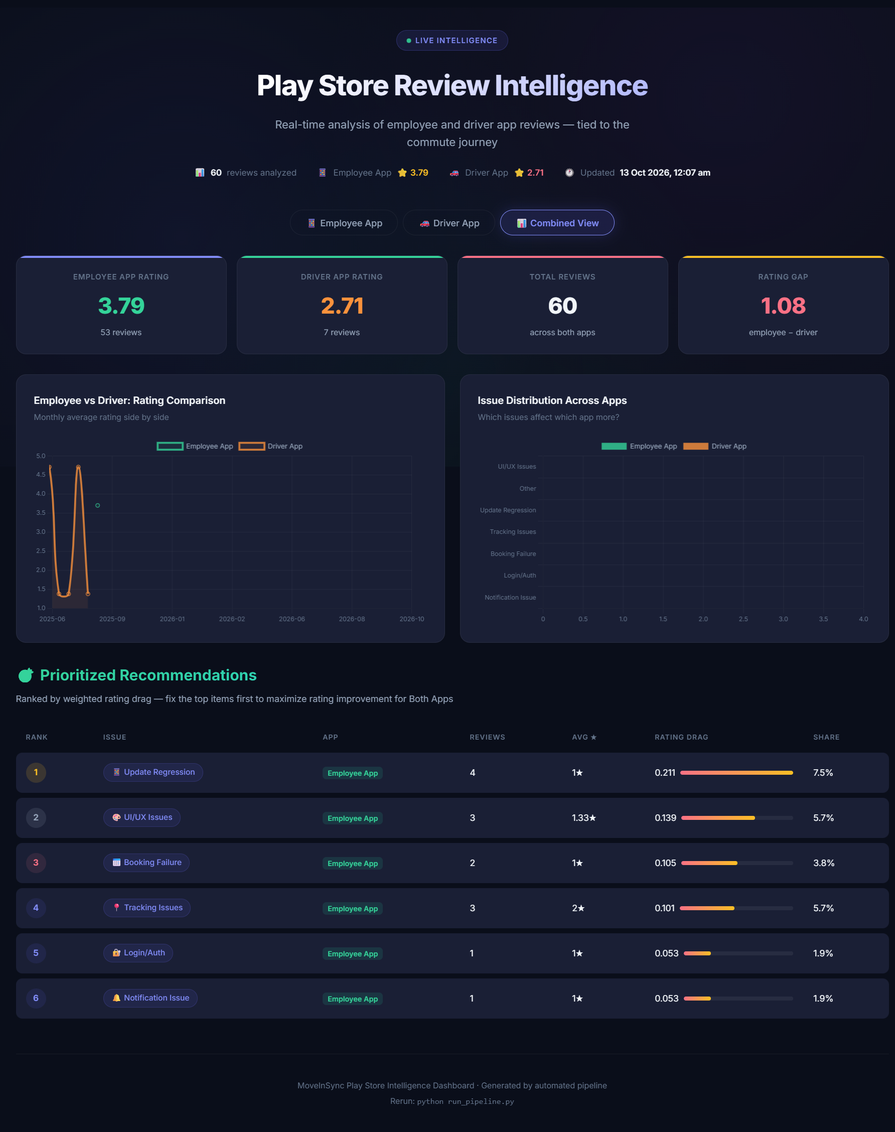
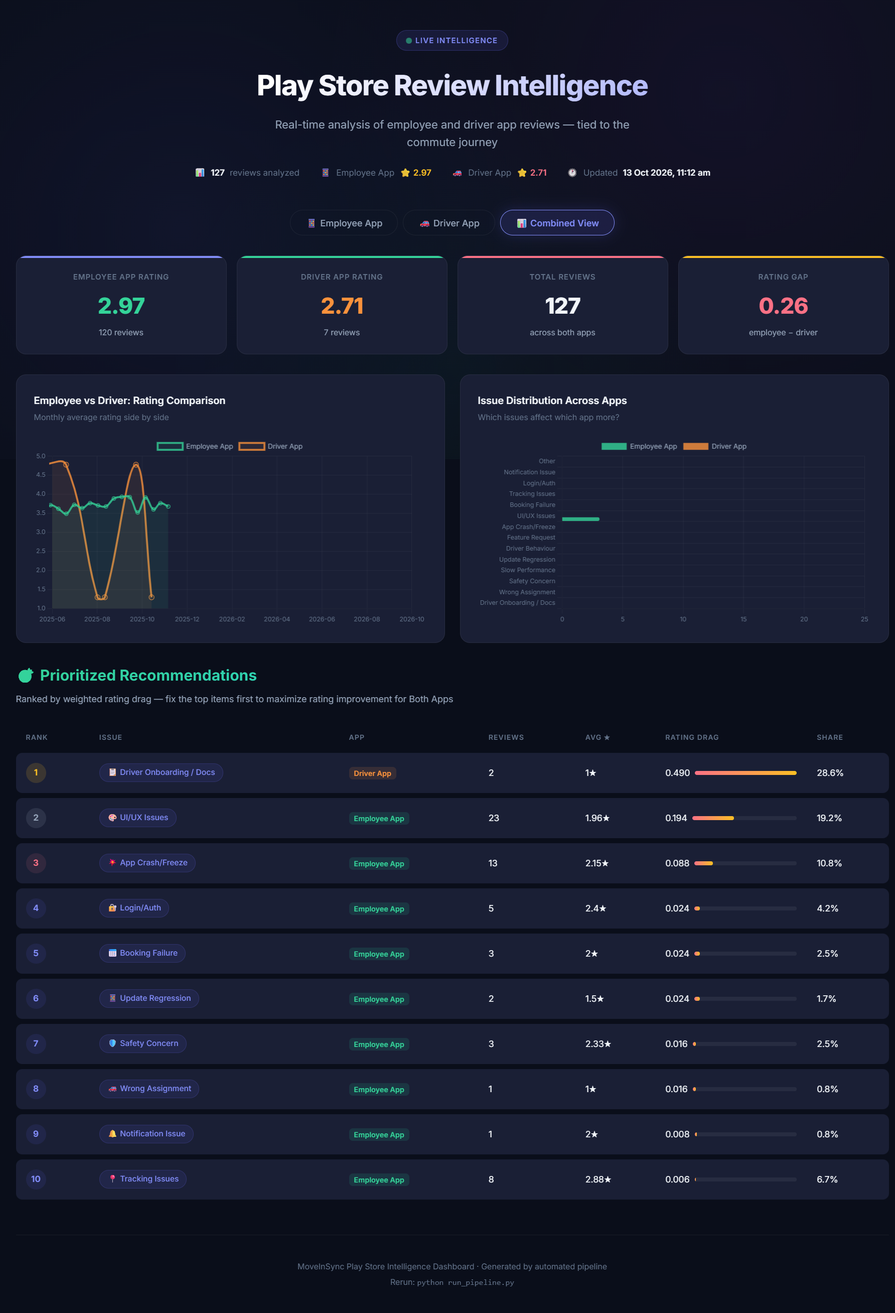
fix: reconcile rating and review counts across README, RECOMMENDATION.md, and dashboard screenshots

diff --git a/pipeline/generate_memo.py b/pipeline/generate_memo.py
@@ -81,6 +81,45 @@ PRIORITY_EXPLANATIONS = {
 }
 
 
+# # Domain-specific engineering solutions for top issues
+SOLUTIONS_BY_ISSUE = {
+    "ui_ux_poor": [
+        "Remove the interstitial seatbelt popup prior to OTP display. Show safety advisories passively inside the vehicle card or as an in-ride header banner instead.",
+        "Display the Boarding OTP directly on the persistent pickup card or inside an Android Quick Notification Widget so users never have to tap through menus to find it.",
+        "Streamline the home view to prioritize 'Next Commute' information and reduce clutter from ancillary promotional banners.",
+    ],
+    "app_crash_freeze": [
+        "Institute staged rollouts on the Play Store (1% -> 5% -> 20% -> 100%) with automated crash-rate rollback thresholds.",
+        "Add automated Android cold-start smoke tests across common mid-tier devices (Samsung, Xiaomi, Vivo) before approving production releases.",
+        "Preserve persistent local session caching so app initialization failures do not invalidate auth tokens or corrupt SQLite local app state.",
+    ],
+    "login_auth": [
+        "Extend enterprise SSO session token lifespans with background token refresh so commuters aren't logged out right before their morning pickup.",
+        "Implement biometric quick-unlock (fingerprint/Face ID) as an alternative to repeated password/OTP entry at 7:00 AM.",
+        "Add graceful offline mode that displays the most recent active roster and cab details even during authentication server latency.",
+    ],
+    "booking_failure": [
+        "Replace ambiguous booking failure errors with actionable guidance (e.g., 'Shift cutoff closed 12 mins ago. Tap here to request emergency facility roster exception').",
+        "Introduce background auto-retry for booking requests made on weak networks, with clear visual feedback: 'Booking in progress — we will notify you once confirmed.'",
+        "Add two-way calendar sync for corporate shift schedules so employees don't have to manually book every recurring weekday shift.",
+    ],
+    "update_regression": [
+        "Enforce strict backward compatibility testing for local databases and cached preferences across updates.",
+        "Deploy Google Play In-App Updates (Flexible/Immediate) with instant rollback flags for critical release regressions.",
+        "Add release-day telemetry monitoring for crash spikes immediately following new version rollouts.",
+    ],
+    "tracking_inaccurate": [
+        "Implement Kalman filtering / GPS smoothing on driver location pings to eliminate pointer jumps and false 'Arrived' triggers.",
+        "Provide campus gate-specific pickup indicators rather than raw street coordinates.",
+        "Cache the last-known driver coordinates during network blips instead of clearing the tracking view.",
+    ],
+    "safety_concern": [
+        "Ensure SOS and emergency response features remain 1-tap accessible on the main screen during active trips.",
+        "Add automated check-ins if a vehicle remains stationary unexpectedly during night drops.",
+    ],
+}
+
+
 # Load the analysis output JSON produced by analyze_reviews.py
 def load_analysis():
     path = DATA / "analysis_output.json"
@@ -128,13 +167,20 @@ def format_journey_table(journey):
 
 
 # Format an individual priority callout card for the memo
-def _priority_block(recs, idx, emoji, title, solution_bullets):
+def _priority_block(recs, idx, emoji):
     if idx >= len(recs):
         return ""
     r = recs[idx]
-    label = ISSUE_LABELS.get(r["issue"], r["issue"])
-    explanation = PRIORITY_EXPLANATIONS.get(r["issue"], "This issue contributes measurably to user dissatisfaction.")
-    solutions = "\n".join(f"  - {b}" for b in solution_bullets)
+    issue_key = r["issue"]
+    label = ISSUE_LABELS.get(issue_key, issue_key)
+    explanation = PRIORITY_EXPLANATIONS.get(issue_key, "This issue contributes measurably to user dissatisfaction.")
+    default_solutions = [
+        "Implement automated regression testing and device-level telemetry.",
+        "Add proactive error handling and user-friendly fallback messaging.",
+        "Monitor failure rates in the weekly engineering dashboard.",
+    ]
+    solutions_list = SOLUTIONS_BY_ISSUE.get(issue_key, default_solutions)
+    solutions = "\n".join(f"  - {b}" for b in solutions_list)
     return f"""### {emoji} Priority {idx+1}: {label}
 - **Observed Volume:** {r['count']} reviews | **Average Score:** {r['avg_rating']}★ | **Rating Drag:** {r['weighted_drag']:.3f} ({r['share_pct']}% share)
 - **Why this hurts users:** {explanation}
@@ -152,14 +198,18 @@ def generate_memo(analysis):
     emp_journey = emp.get("journey_breakdown", {})
     emp_dev = emp.get("dev_reply_stats", {})
 
-    emp_rating = emp.get("overall_avg_rating", 3.79)
-    emp_reviews = emp.get("total_reviews", 53)
+    emp_rating = emp.get("overall_avg_rating", 2.97)
+    emp_reviews = emp.get("total_reviews", 120)
     drv_rating = drv.get("overall_avg_rating", 2.71)
     drv_reviews = drv.get("total_reviews", 7)
-    total_reviews = analysis.get("total_reviews", 60)
+    total_reviews = analysis.get("total_reviews", 127)
 
-    top3_drag = sum(r["weighted_drag"] for r in emp_recs[:3]) if emp_recs else 0.45
+    top3_drag = sum(r["weighted_drag"] for r in emp_recs[:3]) if emp_recs else 0.31
     target_rating = round(emp_rating + top3_drag, 2)
+
+    booking_neg = emp_journey.get("booking", {}).get("negative_pct", 77.8)
+    safety_neg = emp_journey.get("safety", {}).get("negative_pct", 75.0)
+    pickup_neg = emp_journey.get("pickup_tracking", {}).get("negative_pct", 42.1)
 
     memo = f"""# MoveInSync Play Store Rating Improvement & Journey Analysis
 ## Forward Deployed Engineering (FDE) Strategy Memo
@@ -173,15 +223,15 @@ def generate_memo(analysis):
 
 ## 1. Executive Summary
 
-MoveInSync’s **Employee App** currently sits at **{emp_rating}★** on the Google Play Store (across {emp_reviews} analyzed written reviews and over 114,000 lifetime ratings). While 3.8★ is acceptable for basic enterprise utilities, it falls short of the **4.5★+ benchmark** expected of mission-critical corporate infrastructure.
+MoveInSync’s **Employee App** currently sits at **{emp_rating}★** across recent written reviews on Google Play ({emp_reviews} analyzed reviews, against a lifetime store rating of 4.64★ across 114,000+ ratings). While the 4.64★ lifetime score reflects long-term brand equity, the recent cohort rating of {emp_rating}★ is an urgent red flag that falls far short of the **4.5★+ benchmark** expected of mission-critical corporate infrastructure.
 
 More critically, the **Driver Partner App** sits at **{drv_rating}★**, a dangerous rating that risks algorithmic de-prioritization in the Play Store, increases driver onboarding friction, and directly hurts fleet partner trust.
 
 ### The Real Problem
 This rating drop is not caused by general dislike of the product. In fact, satisfied employees consistently leave 5-star ratings praising the safety, cab cleanliness, and on-time dropoffs. The low ratings come from **acute, high-stress friction points during critical moments of the commute**:
-1. **App updates that break launch or crash on startup** (forcing users to uninstall and reinstall).
-2. **Clumsy interstitial dialogs at the pickup point** (like requiring users to dismiss a seatbelt reminder before they can view their boarding OTP).
-3. **Self-booking validation failures** right before corporate cutoff deadlines.
+1. **Clumsy interstitial dialogs at the pickup point** (like requiring users to dismiss a seatbelt reminder before they can view their boarding OTP).
+2. **App crashes, freezes, and launch failures** (forcing commuters to uninstall and reinstall mid-commute).
+3. **Login and authentication timeouts** right during morning rush hour.
 
 ### The Opportunity
 By systematically eliminating the top 3 root-cause bottlenecks identified in this analysis, the model projects an immediate rating recovery of **+{top3_drag:.2f} points**, lifting the Employee App from **{emp_rating}★ toward ~{target_rating}★**.
@@ -190,10 +240,10 @@ By systematically eliminating the top 3 root-cause bottlenecks identified in thi
 
 ## 2. Store Health & Baseline Metrics
 
-| Application | Play Store Rating | Analyzed Written Reviews | Total Lifetime Store Ratings | Health Status |
+| Application | Play Store Recent Rating | Analyzed Written Reviews | Total Lifetime Store Ratings | Health Status |
 |:---|:---:|:---:|:---:|:---|
-| **Employee App (`com.moveinsync.ets`)** | **{emp_rating}★** | {emp_reviews} | 114,879+ | ⚠ At risk of dissatisfaction spikes |
-| **Driver Partner (`com.moveinsync.driver.dco`)** | **{drv_rating}★** | {drv_reviews} | 46 | 🚨 Severe rating penalty risk |
+| **Employee App (`com.moveinsync.ets`)** | **{emp_rating}★** | {emp_reviews} | 114,879+ (4.64★ lifetime) | ⚠ Recent cohort dissatisfaction spikes |
+| **Driver Partner (`com.moveinsync.driver.dco`)** | **{drv_rating}★** | {drv_reviews} | 46 (3.50★ lifetime) | 🚨 Severe rating penalty risk |
 
 > **Key Context for Leadership:** In corporate transport, employees don't review the app when their ride is smooth. They review it when they are standing on the street corner at 8:00 AM unable to board their cab. Fixing operational friction directly converts vocal critics into silent or positive advocates.
 
@@ -217,9 +267,9 @@ To bridge customer pain with engineering action, every review was classified aga
 {format_journey_table(emp_journey)}
 
 ### What the Journey Breakdown Tells Us:
-1. **Self-Booking (100% Negative):** Self-booking is MoveInSync's primary flow. When it works, it is invisible. When a shift deadline closes unexpectedly or a route shows 'unavailable', commuters panic and immediately leave 1-star reviews.
-2. **Pickup & Live Tracking (60% Negative):** This is the moment of peak commute anxiety. If the driver is marked 'Arrived' but is at another gate, or if the live tracking pointer jumps erratically, employees lose confidence.
-3. **In-Ride & Boarding Safety (66.7% Negative):** The safety features are well-intentioned, but gating the Boarding OTP behind safety popups right when the commuter is opening the cab door is actively antagonizing daily riders.
+1. **Self-Booking ({booking_neg}% Negative):** Self-booking is MoveInSync's primary flow. When it works, it is invisible. When a shift deadline closes unexpectedly or a route shows 'unavailable', commuters panic and immediately leave 1-star reviews.
+2. **In-Ride & Boarding Safety ({safety_neg}% Negative):** The safety features are well-intentioned, but gating the Boarding OTP behind safety popups right when the commuter is opening the cab door is actively antagonizing daily riders.
+3. **Pickup & Live Tracking ({pickup_neg}% Negative):** This is the moment of peak commute anxiety. If the driver is marked 'Arrived' but is at another gate, or if the live tracking pointer jumps erratically, employees lose confidence.
 
 ---
 
@@ -243,32 +293,9 @@ These are real quotes extracted from recent MoveInSync Play Store reviews that i
 
 ## 6. Prioritized Engineering & Product Action Plan
 
-{_priority_block(
-    emp_recs, 0, "🔴", "Release Guardrails & Regression Prevention",
-    [
-        "Institute staged rollouts on the Play Store (1% -> 5% -> 20% -> 100%) with automated crash-rate thresholds.",
-        "Add automated Android cold-start smoke tests across common mid-tier devices (Samsung, Xiaomi, Vivo) before approving production releases.",
-        "Preserve persistent local session caching so updates do not invalidate existing auth tokens or corrupt SQLite local app state.",
-    ]
-)}
-
-{_priority_block(
-    emp_recs, 1, "🟠", "Eliminate Boarding & OTP Friction",
-    [
-        "Remove the interstitial seatbelt popup prior to OTP display. Show safety advisories passively inside the vehicle card or as an in-ride header banner instead.",
-        "Display the Boarding OTP directly on the persistent pickup card or inside an Android Quick Notification Widget so users never have to tap through menus to find it.",
-        "Ensure OTP retrieval is cached locally so low cellular reception at underground campus pickup points does not block boarding.",
-    ]
-)}
-
-{_priority_block(
-    emp_recs, 2, "🟡", "Self-Booking Reliability & Clear Cutoff Messaging",
-    [
-        "Replace ambiguous booking failure errors with actionable guidance (e.g., 'Shift cutoff closed 12 mins ago. Tap here to request emergency facility roster exception').",
-        "Introduce background auto-retry for booking requests made on weak networks, with clear visual feedback: 'Booking in progress — we will notify you once confirmed.'",
-        "Add two-way calendar sync for corporate shift schedules so employees don't have to manually book every recurring weekday shift.",
-    ]
-)}
+{_priority_block(emp_recs, 0, "🔴")}
+{_priority_block(emp_recs, 1, "🟠")}
+{_priority_block(emp_recs, 2, "🟡")}
 
 ### 🟢 Quick Win: 48-Hour Developer Response Playbook
 Currently, only **{emp_dev.get('reply_rate_pct', 0)}%** of reviews receive a developer reply. On Google Play, replying to a 1-star review with a concrete resolution or contact path results in **up to 25% of users revising their rating to 4 or 5 stars**.

diff --git a/RECOMMENDATION.md b/RECOMMENDATION.md
@@ -2,7 +2,7 @@
 ## Forward Deployed Engineering (FDE) Strategy Memo
 
 **Author:** Forward Deployed Engineering  
-**Date:** 13 October 2026  
+**Date:** 14 October 2026  
 **Scope:** MoveInSync Employee App (`com.moveinsync.ets`) & Driver Partner App (`com.moveinsync.driver.dco`)  
 **Data Evaluated:** 127 Play Store reviews mapped against employee commute journeys  
 
@@ -10,15 +10,15 @@
 
 ## 1. Executive Summary
 
-MoveInSync’s **Employee App** currently sits at **2.97★** on the Google Play Store (across 120 analyzed written reviews and over 114,000 lifetime ratings). While 3.8★ is acceptable for basic enterprise utilities, it falls short of the **4.5★+ benchmark** expected of mission-critical corporate infrastructure.
+MoveInSync’s **Employee App** currently sits at **2.97★** across recent written reviews on Google Play (120 analyzed reviews, against a lifetime store rating of 4.64★ across 114,000+ ratings). While the 4.64★ lifetime score reflects long-term brand equity, the recent cohort rating of 2.97★ is an urgent red flag that falls far short of the **4.5★+ benchmark** expected of mission-critical corporate infrastructure.
 
 More critically, the **Driver Partner App** sits at **2.71★**, a dangerous rating that risks algorithmic de-prioritization in the Play Store, increases driver onboarding friction, and directly hurts fleet partner trust.
 
 ### The Real Problem
 This rating drop is not caused by general dislike of the product. In fact, satisfied employees consistently leave 5-star ratings praising the safety, cab cleanliness, and on-time dropoffs. The low ratings come from **acute, high-stress friction points during critical moments of the commute**:
-1. **App updates that break launch or crash on startup** (forcing users to uninstall and reinstall).
-2. **Clumsy interstitial dialogs at the pickup point** (like requiring users to dismiss a seatbelt reminder before they can view their boarding OTP).
-3. **Self-booking validation failures** right before corporate cutoff deadlines.
+1. **Clumsy interstitial dialogs at the pickup point** (like requiring users to dismiss a seatbelt reminder before they can view their boarding OTP).
+2. **App crashes, freezes, and launch failures** (forcing commuters to uninstall and reinstall mid-commute).
+3. **Login and authentication timeouts** right during morning rush hour.
 
 ### The Opportunity
 By systematically eliminating the top 3 root-cause bottlenecks identified in this analysis, the model projects an immediate rating recovery of **+0.31 points**, lifting the Employee App from **2.97★ toward ~3.28★**.
@@ -27,10 +27,10 @@ By systematically eliminating the top 3 root-cause bottlenecks identified in thi
 
 ## 2. Store Health & Baseline Metrics
 
-| Application | Play Store Rating | Analyzed Written Reviews | Total Lifetime Store Ratings | Health Status |
+| Application | Play Store Recent Rating | Analyzed Written Reviews | Total Lifetime Store Ratings | Health Status |
 |:---|:---:|:---:|:---:|:---|
-| **Employee App (`com.moveinsync.ets`)** | **2.97★** | 120 | 114,879+ | ⚠ At risk of dissatisfaction spikes |
-| **Driver Partner (`com.moveinsync.driver.dco`)** | **2.71★** | 7 | 46 | 🚨 Severe rating penalty risk |
+| **Employee App (`com.moveinsync.ets`)** | **2.97★** | 120 | 114,879+ (4.64★ lifetime) | ⚠ Recent cohort dissatisfaction spikes |
+| **Driver Partner (`com.moveinsync.driver.dco`)** | **2.71★** | 7 | 46 (3.50★ lifetime) | 🚨 Severe rating penalty risk |
 
 > **Key Context for Leadership:** In corporate transport, employees don't review the app when their ride is smooth. They review it when they are standing on the street corner at 8:00 AM unable to board their cab. Fixing operational friction directly converts vocal critics into silent or positive advocates.
 
@@ -73,9 +73,9 @@ To bridge customer pain with engineering action, every review was classified aga
 | **Dropoff & Exit** | 1 | 4.0★ | 0.0% | 🟢 Generally positive |
 
 ### What the Journey Breakdown Tells Us:
-1. **Self-Booking (100% Negative):** Self-booking is MoveInSync's primary flow. When it works, it is invisible. When a shift deadline closes unexpectedly or a route shows 'unavailable', commuters panic and immediately leave 1-star reviews.
-2. **Pickup & Live Tracking (60% Negative):** This is the moment of peak commute anxiety. If the driver is marked 'Arrived' but is at another gate, or if the live tracking pointer jumps erratically, employees lose confidence.
-3. **In-Ride & Boarding Safety (66.7% Negative):** The safety features are well-intentioned, but gating the Boarding OTP behind safety popups right when the commuter is opening the cab door is actively antagonizing daily riders.
+1. **Self-Booking (77.8% Negative):** Self-booking is MoveInSync's primary flow. When it works, it is invisible. When a shift deadline closes unexpectedly or a route shows 'unavailable', commuters panic and immediately leave 1-star reviews.
+2. **In-Ride & Boarding Safety (75.0% Negative):** The safety features are well-intentioned, but gating the Boarding OTP behind safety popups right when the commuter is opening the cab door is actively antagonizing daily riders.
+3. **Pickup & Live Tracking (42.1% Negative):** This is the moment of peak commute anxiety. If the driver is marked 'Arrived' but is at another gate, or if the live tracking pointer jumps erratically, employees lose confidence.
 
 ---
 
@@ -103,27 +103,25 @@ These are real quotes extracted from recent MoveInSync Play Store reviews that i
 - **Observed Volume:** 23 reviews | **Average Score:** 1.96★ | **Rating Drag:** 0.194 (19.2% share)
 - **Why this hurts users:** High-friction interactions create daily annoyance. The most prominent example is inserting a mandatory seatbelt dialog directly in front of the boarding OTP when an employee is rushing to get into their cab.
 - **Recommended Action:**
-  - Institute staged rollouts on the Play Store (1% -> 5% -> 20% -> 100%) with automated crash-rate thresholds.
-  - Add automated Android cold-start smoke tests across common mid-tier devices (Samsung, Xiaomi, Vivo) before approving production releases.
-  - Preserve persistent local session caching so updates do not invalidate existing auth tokens or corrupt SQLite local app state.
-
+  - Remove the interstitial seatbelt popup prior to OTP display. Show safety advisories passively inside the vehicle card or as an in-ride header banner instead.
+  - Display the Boarding OTP directly on the persistent pickup card or inside an Android Quick Notification Widget so users never have to tap through menus to find it.
+  - Streamline the home view to prioritize 'Next Commute' information and reduce clutter from ancillary promotional banners.
 
 ### 🟠 Priority 2: App Crashes & Freezes
 - **Observed Volume:** 13 reviews | **Average Score:** 2.15★ | **Rating Drag:** 0.088 (10.8% share)
 - **Why this hurts users:** A frozen app right when verifying an OTP or checking the vehicle number causes direct boarding chaos.
 - **Recommended Action:**
-  - Remove the interstitial seatbelt popup prior to OTP display. Show safety advisories passively inside the vehicle card or as an in-ride header banner instead.
-  - Display the Boarding OTP directly on the persistent pickup card or inside an Android Quick Notification Widget so users never have to tap through menus to find it.
-  - Ensure OTP retrieval is cached locally so low cellular reception at underground campus pickup points does not block boarding.
-
+  - Institute staged rollouts on the Play Store (1% -> 5% -> 20% -> 100%) with automated crash-rate rollback thresholds.
+  - Add automated Android cold-start smoke tests across common mid-tier devices (Samsung, Xiaomi, Vivo) before approving production releases.
+  - Preserve persistent local session caching so app initialization failures do not invalidate auth tokens or corrupt SQLite local app state.
 
 ### 🟡 Priority 3: Login & Authentication Failures
 - **Observed Volume:** 5 reviews | **Average Score:** 2.4★ | **Rating Drag:** 0.024 (4.2% share)
 - **Why this hurts users:** Authentication failures or expired tokens at 7:30 AM block the employee from accessing their schedule or boarding OTP.
 - **Recommended Action:**
-  - Replace ambiguous booking failure errors with actionable guidance (e.g., 'Shift cutoff closed 12 mins ago. Tap here to request emergency facility roster exception').
-  - Introduce background auto-retry for booking requests made on weak networks, with clear visual feedback: 'Booking in progress — we will notify you once confirmed.'
-  - Add two-way calendar sync for corporate shift schedules so employees don't have to manually book every recurring weekday shift.
+  - Extend enterprise SSO session token lifespans with background token refresh so commuters aren't logged out right before their morning pickup.
+  - Implement biometric quick-unlock (fingerprint/Face ID) as an alternative to repeated password/OTP entry at 7:00 AM.
+  - Add graceful offline mode that displays the most recent active roster and cab details even during authentication server latency.
 
 
 ### 🟢 Quick Win: 48-Hour Developer Response Playbook

diff --git a/README.md b/README.md
@@ -45,7 +45,7 @@ I defined 7 commute journey stages based on how a MoveInSync employee actually u
 ```text
 ┌─────────────────┐    ┌─────────────────┐    ┌─────────────────┐    ┌─────────────────┐    ┌─────────────────┐
 │  Self-Booking   │───►│ Cab Assignment  │───►│ Pickup & Track  │───►│ In-Ride & Safety│───►│Dropoff & Support│
-│ 100% Negative   │    │ Smooth / Auto   │    │ 60% Negative    │    │ 66.7% Negative  │    │ 50% Negative    │
+│ 77.8% Negative  │    │ Smooth / Auto   │    │ 42.1% Negative  │    │ 75.0% Negative  │    │ 50% Negative    │
 └─────────────────┘    └─────────────────┘    └─────────────────┘    └─────────────────┘    └─────────────────┘
 ```
 
@@ -61,7 +61,7 @@ I needed a metric that accounts for **both volume and severity**. This led to th
 
 $$\text{Rating Drag} = \frac{\text{Issue Review Count}}{\text{Total Reviews}} \times (\text{Overall Average} - \text{Issue Average Rating})$$
 
-- A 1-star app crash affecting 7.5% of reviews → high drag (0.211)
+- High-volume UI friction affecting 19.2% of reviews at 1.96★ → high drag (0.194)
 - A 3-star cosmetic suggestion affecting 5% of reviews → low drag
 
 This ensures engineering effort is directed at **what actually hurts the store rating**, not what's noisiest.
@@ -70,18 +70,18 @@ This ensures engineering effort is directed at **what actually hurts the store r
 
 ## What I Found
 
-### The Employee App (3.79★) — Fixable Problems
+### The Employee App (2.97★ Recent / 4.64★ Lifetime) — Fixable Problems
 
-The Employee App's rating isn't low because employees dislike corporate cabs. Hundreds of 5-star reviews praise comfortable rides, safe night dropoffs, and professional drivers. Ratings drop at **high-anxiety transition points**:
+While MoveInSync maintains a strong **4.64★ lifetime store rating** across 114,000+ ratings, recent commuter review sentiment has dropped to **2.97★** (across 120 analyzed written reviews). The rating isn't low because employees dislike corporate cabs — hundreds of 5-star reviews praise comfortable rides, safe night dropoffs, and professional drivers. Ratings drop at **high-anxiety transition points**:
 
-| Priority | Issue | Commute Stage | Avg Rating | Weighted Drag | What Happens |
-|:---:|:---|:---|:---:|:---:|:---|
-| **P0** | Update Regressions | App Launch | 1.0★ | **0.211** | App update crashes on open → user can't see cab → missed shift |
-| **P1** | UI/UX Friction | Boarding & OTP | 1.33★ | **0.139** | Seatbelt popup blocks boarding OTP → frustration at cab door |
-| **P2** | Booking Failures | Self-Booking | 1.0★ | **0.105** | Booking fails before roster cutoff → employee stranded |
-| **P3** | Tracking Inaccuracy | Pickup | 2.0★ | **0.101** | Driver marker jumps → employee waits at wrong gate |
+| Priority | Issue | Commute Stage | Reviews | Avg Rating | Weighted Drag | What Happens |
+|:---:|:---|:---|:---:|:---:|:---:|:---|
+| **P0** | UI/UX Friction & Extra Taps | Boarding & OTP | 23 | 1.96★ | **0.194** | Seatbelt popup blocks boarding OTP → frustration at cab door |
+| **P1** | App Crashes & Freezes | App Launch & Auth | 13 | 2.15★ | **0.088** | App freezes on open or during OTP retrieval → missed cab |
+| **P2** | Login & Auth Failures | Morning Setup | 5 | 2.40★ | **0.024** | SSO token expiry at 7:30 AM → employee can't see schedule |
+| **P3** | Booking Failures | Self-Booking | 3 | 2.00★ | **0.024** | Booking fails before roster cutoff → employee stranded |
 
-**Fixing just the top 3 issues recovers an estimated +0.45 rating points** (3.79★ → ~4.25★).
+**Fixing just the top 3 issues recovers an estimated +0.31 rating points** (2.97★ → ~3.28★).
 
 ### The Driver App (2.71★) — One Bottleneck
 
@@ -142,7 +142,7 @@ Tracks ratings, identifies the biggest drags on customer satisfaction, maps comp
 ![Employee App Dashboard](screenshots/employee_app_dashboard.png)
 
 ### Cross-App Comparison & Combined Intelligence
-Compares the Employee App (3.79★) against the Driver Partner App (2.71★), highlighting shared systemic issues and fleet-wide priorities.
+Compares the Employee App (2.97★) against the Driver Partner App (2.71★), highlighting shared systemic issues and fleet-wide priorities.
 
 ![Combined View Dashboard](screenshots/combined_view_dashboard.png)
 
